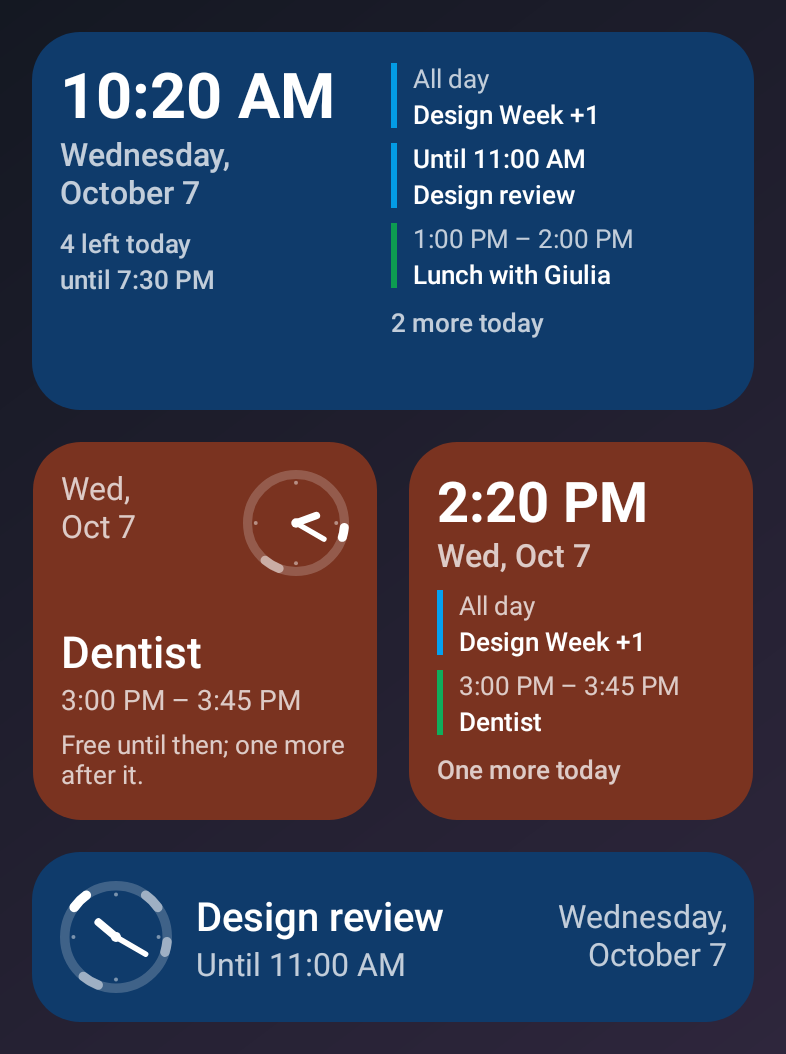
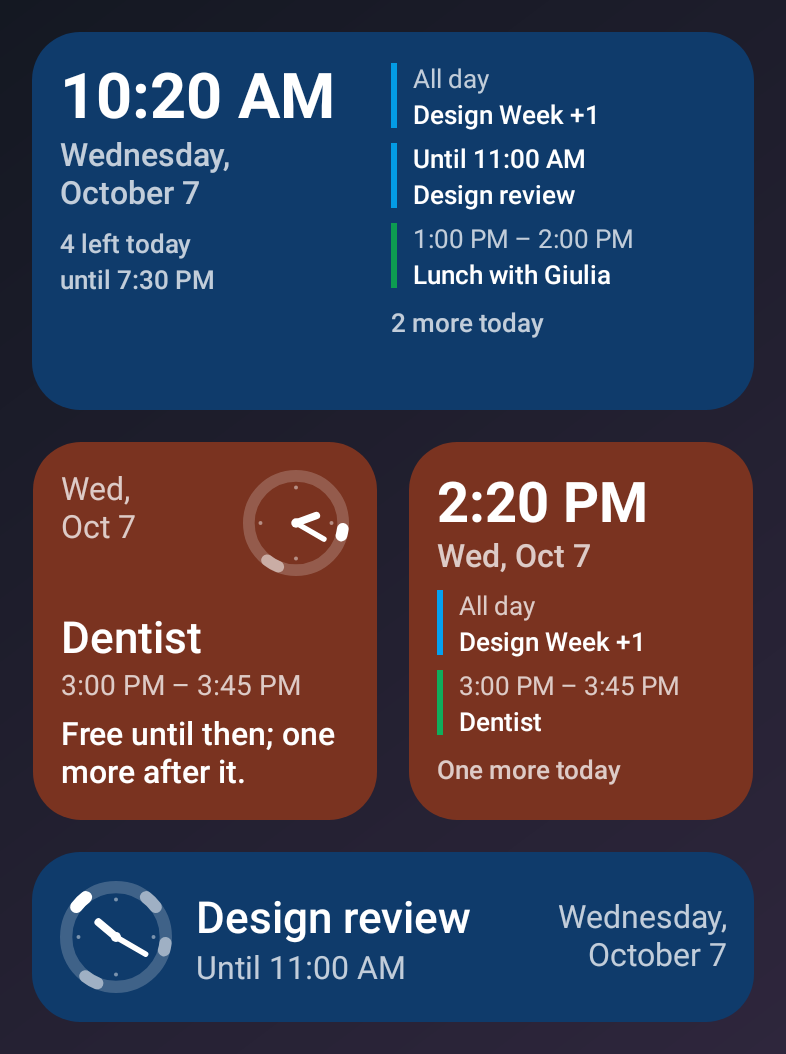
The family's ring card: «In words» drawn as its sisters
One cell is the dial alone; the dial's ring is 11% of its side, as every
ring card of the family draws it; a row's title is 22 sp; the note is the
family's sentence, 16 sp Medium in the strong ink, two lines; a long
title's second line comes before the note. The four-by-two strip is left
as an open question in PLANNING §15. README screenshots regenerated.

Claude-Session: https://claude.ai/code/session_016e4mBMaw6WtMuiD1zs5DWe

diff --git a/core/domain/src/main/kotlin/com/callbackdev/tempo/core/domain/widget/WordsFit.kt b/core/domain/src/main/kotlin/com/callbackdev/tempo/core/domain/widget/WordsFit.kt
@@ -12,16 +12,17 @@ package com.callbackdev.tempo.core.domain.widget
  * | 2 | the focus's title ("Design review"; "Free" when nothing is left) | [TITLE_SP], [TALL_TITLE_SP] | Medium | strong |
  * | 3 | when ("Until 11:00", "15:00 – 16:00", "Tomorrow · 9:00 – 10:00") | [WHEN_SP] | Regular | quiet |
  * | 4 | the date (the system's `TextClock`, so it turns at midnight) | [DATE_SP] | Regular | quiet |
- * | 5 | the day's note; the next events as rows, else the line of times | [NOTE_SP], [ROW_SP] | Regular; a row's title Medium | quiet; a row's title strong |
+ * | 5 | the day's note, the card's sentence | [NOTE_SP] | Medium | strong |
+ * | 6 | the next events as rows, else the line of times | [ROW_SP], [THEN_SP] | Regular; a row's title Medium | quiet; a row's title strong |
  *
  * No number is large: a time printed at a count's size made a sentence shout ("Until 18:30" at
  * 34 sp left the title three words and an ellipsis), and the dial already says the hour. The
- * sizes: the title at 20 sp, the time and the date at 16 sp.
+ * sizes: the title at 22 sp, the time, the date and the note at 16 sp (owner, 14 Nov 2026: the family's
+ * ring card).
  *
  * Three forms:
  *
- * - [WordsForm.CELL], one cell wide: the dial as large as the cell, the focus's time under it where
- *   the cell is taller than wide.
+ * - [WordsForm.CELL], one cell wide: the dial alone, as large as the cell.
  * - [WordsForm.ROW], one row. The dial; the title over its time; the date at the far edge, over
  *   two lines, where the row has the room.
  * - [WordsForm.TALL], two rows and up. The dial in the top trailing corner with the date beside
@@ -159,9 +160,9 @@ object WordsFit {
     }
 
     /**
-     * One cell: the dial is the cell's circle ([cellCircle]), and the focus's time under it where
-     * the cell is tall enough to hold it whole beside the dial's size, the title under that where a
-     * line is left. Without the dial, the time in its place, bold and as large as fits, the title
+     * One cell: the dial alone, the cell's circle ([cellCircle]), centred, as the family's ring
+     * cards draw one cell (owner, 14 Nov 2026; until then the focus's time stood under it where the
+     * cell was tall). Without the dial, the time in its place, bold and as large as fits, the title
      * under it where a line is left.
      */
     private fun cellPlan(spec: WordsSpec): WordsPlan {
@@ -186,19 +187,9 @@ object WordsFit {
             snug = snug,
             sidePadding = AgendaFit.CELL_PADDING,
         )
-        if (spec.dial) {
-            val dial = cellCircle(spec.width, spec.height)
-            val time = whenFor(spec, width, listOf(CELL_WHEN_SP))
-            val under = time?.let { lineHeight(it.sp, scale) + CELL_GAP } ?: 0f
-            if (time == null || inner - dial < under) return base.copy(dial = dial)
-            val title = inner - dial - under >= lineHeight(CELL_TITLE_SP, scale)
-            return base.copy(
-                dial = dial,
-                whenChoice = time.choice,
-                whenSp = time.sp,
-                titleLines = if (title) 1 else 0,
-            )
-        }
+        // The dial alone, as every ring card of the family draws one cell (owner, 14 Nov 2026): the
+        // hands say the time, the arc the event, and the cell keeps no line under them.
+        if (spec.dial) return base.copy(dial = cellCircle(spec.width, spec.height))
         val title = lineHeight(CELL_TITLE_SP, scale)
         fun size(em: Float, room: Float) =
             quarterPoint(minOf(sizeForLine(room, scale), spThatFits(width, em, scale), CELL_WHEN_MAX))
@@ -381,6 +372,16 @@ object WordsFit {
                 left -= line
             }
         }
+        // The title's second line first, for a title too long for one even at [TALL_TITLE_MIN_SP]:
+        // the hero is whole before the sentence speaks, as on every ring card of the family, where
+        // the sentence is what yields (owner, 14 Nov 2026; it came after the note and the dial's
+        // comfort). In the same Text as its first: the face's ascent and descent.
+        var titleLines = 1
+        val secondTitleLine = linesHeight(titleSp, 2, scale) - titleLine
+        if (spec.note && !oneLine && spec.titleLines >= 2 && left >= secondTitleLine) {
+            left -= secondTitleLine
+            titleLines = 2
+        }
         // The note whole or not at all: a sentence cut off mid-phrase says less than none.
         val noteHeight = linesHeight(NOTE_SP, spec.noteLines, scale) + NOTE_GAP
         val noteLines =
@@ -389,13 +390,6 @@ object WordsFit {
         // The rest come where they fit with the dial at its comfort, as they did when the dial grew
         // to it first: a smaller circle leaves air, and a card keeps the words it held.
         if (dial > 0f) left -= (TALL_DIAL_COMFORT - dial).coerceIn(0f, left.coerceAtLeast(0f))
-        var titleLines = 1
-        // The title's second line, in the same Text as its first: the face's ascent and descent.
-        val secondTitleLine = linesHeight(titleSp, 2, scale) - titleLine
-        if (spec.note && !oneLine && spec.titleLines >= 2 && left >= secondTitleLine) {
-            left -= secondTitleLine
-            titleLines = 2
-        }
         // The rows stand where the line of times would, each title keeping [ROW_TITLE_MIN] beside
         // the time column, or an ellipsis says nothing.
         val rowTime = if (spec.rows > 0) widthOf(spec.rowTimeEm, ROW_SP, scale) else 0f
@@ -409,7 +403,7 @@ object WordsFit {
         }
         if (rows > 0) left -= rowsHeight
         val then = spec.note && rows == 0 && spec.then && width >= THEN_MIN_WIDTH &&
-            left >= lineHeight(NOTE_SP, scale)
+            left >= lineHeight(THEN_SP, scale)
         return WordsPlan(
             form = WordsForm.TALL,
             dial = quarterPoint(dial),
@@ -481,8 +475,11 @@ object WordsFit {
         return quarterPoint((innerHeight - band * LINE_BOX_EM * fontScale).coerceIn(TALL_CIRCLE_MIN, most))
     }
 
-    /** The title on a row. */
-    const val TITLE_SP = 20f
+    /**
+     * The title on a row: the scale's [WidgetType.TITLE], the size a word hero takes on every ring
+     * card of the family (owner, 14 Nov 2026; it was 20 sp).
+     */
+    const val TITLE_SP = WidgetType.TITLE
     const val TALL_TITLE_SP = WidgetType.TITLE
     const val TALL_TITLE_MIN_SP = 18f
     const val NARROW_TITLE_SP = 16f
@@ -502,10 +499,17 @@ object WordsFit {
     const val DATE_SP = WidgetType.BODY
     private val DATE_SIZES = listOf(DATE_SP, 14f, 13f)
 
-    /** The note: the scale's [WidgetType.LABEL] (13 Oct 2026, from 14), a list's own size. */
-    const val NOTE_SP = WidgetType.LABEL
+    /**
+     * The note, the card's sentence: the family's sentence on a ring card (owner, 14 Nov 2026),
+     * the scale's [WidgetType.BODY], Medium, in the strong ink, two lines at most. It was the label
+     * step in the quiet ink, three lines. The line of times keeps the list's size ([THEN_SP]).
+     */
+    const val NOTE_SP = WidgetType.BODY
     const val NOTE_GAP = 4f
-    const val NOTE_MAX_LINES = 3
+    const val NOTE_MAX_LINES = 2
+
+    /** The line of times ("Then 13:00 · 15:00"): a list's size, as the rows. */
+    const val THEN_SP = WidgetType.LABEL
     const val TOP_GAP = 4f
 
     /** The dial on its row, and the air beside it. */

diff --git a/widget/src/main/kotlin/com/callbackdev/tempo/widget/words/WordsWidget.kt b/widget/src/main/kotlin/com/callbackdev/tempo/widget/words/WordsWidget.kt
@@ -225,7 +225,7 @@ private class WordsParts(val context: Context, val model: WidgetModel, private v
             titleLines = measureWidgetLines(context, title, WordsFit.TALL_TITLE_SP, innerWidth, TextWeight.MEDIUM),
             whenEms = whens.map { textEm(context, it, TextWeight.REGULAR) },
             noteLines =
-            note?.let { measureWidgetLines(context, it, WordsFit.NOTE_SP, innerWidth, TextWeight.REGULAR) } ?: 0,
+            note?.let { measureWidgetLines(context, it, WordsFit.NOTE_SP, innerWidth, TextWeight.MEDIUM) } ?: 0,
             then = then,
             rows = rows,
             rowTimeEm = rowTimes.maxOfOrNull { textEm(context, it, TextWeight.REGULAR) } ?: 0f,
@@ -256,7 +256,7 @@ private class WordsParts(val context: Context, val model: WidgetModel, private v
     val then: String? = day?.then?.takeIf { plan.then && it.isNotEmpty() }?.let { events ->
         (events.size downTo 1).map { text.then(events, it) }
             .firstOrNull {
-                widthOf(textEm(context, it, TextWeight.REGULAR), WordsFit.NOTE_SP, scale) <= innerWidth.value
+                widthOf(textEm(context, it, TextWeight.REGULAR), WordsFit.THEN_SP, scale) <= innerWidth.value
             }
     }
 
@@ -447,7 +447,7 @@ private fun Note(parts: WordsParts, palette: WidgetPalette) {
     if (parts.plan.noteLines <= 0) return
     Text(
         text = note,
-        style = TextStyle(color = palette.secondaryInk, fontSize = WordsFit.NOTE_SP.sp, fontWeight = FontWeight.Normal),
+        style = TextStyle(color = palette.primaryInk, fontSize = WordsFit.NOTE_SP.sp, fontWeight = FontWeight.Medium),
         maxLines = parts.plan.noteLines,
         modifier = GlanceModifier.padding(top = WordsFit.NOTE_GAP.dp),
     )
@@ -498,7 +498,7 @@ private fun focusModifier(parts: WordsParts): GlanceModifier = GlanceModifier
 // --- The forms ---------------------------------------------------------------------------------
 
 /**
- * One cell: the dial, and the focus's time under it where the cell is tall; without the dial, the
+ * One cell: the dial alone (owner, 14 Nov 2026, the family's ring card); without the dial, the
  * time large in its place. Where a message stands in for the day the dial stays, empty, as the
  * clock stays on «Agenda»'s cell: the time works without the calendar (VISION.md); a message's one
  * word only where the reader hid the dial.
@@ -618,7 +618,7 @@ private fun TallContent(parts: WordsParts, palette: WidgetPalette) {
                     text = then,
                     style = TextStyle(
                         color = palette.secondaryInk,
-                        fontSize = WordsFit.NOTE_SP.sp,
+                        fontSize = WordsFit.THEN_SP.sp,
                         fontWeight = FontWeight.Normal,
                     ),
                     maxLines = 1,

diff --git a/core/domain/src/test/kotlin/com/callbackdev/tempo/core/domain/widget/WordsTest.kt b/core/domain/src/test/kotlin/com/callbackdev/tempo/core/domain/widget/WordsTest.kt
@@ -330,13 +330,14 @@ class WordsTest {
     }
 
     @Test
-    fun `one cell is the dial alone, and a tall cell says the time under it`() {
+    fun `one cell is the dial alone, a tall cell too, as the family's ring cards draw one cell`() {
         val cell = WordsFit.plan(spec(85f, 85f))
         assertThat(cell.dial).isEqualTo(85f - AgendaFit.CELL_PADDING * 2)
         assertThat(cell.whenChoice).isEqualTo(-1)
         val tall = WordsFit.plan(spec(85f, 189f))
         assertThat(tall.dial).isEqualTo(WordsFit.cellCircle(85f, 189f))
-        assertThat(tall.whenChoice).isAtLeast(0)
+        assertThat(tall.whenChoice).isEqualTo(-1)
+        assertThat(tall.titleLines).isEqualTo(0)
     }
 
     @Test
@@ -534,8 +535,12 @@ class WordsTest {
         assertThat(plan.dial).isEqualTo(81.75f)
         assertThat(plan.titleLines).isEqualTo(2)
         assertThat(plan.whenChoice).isEqualTo(0)
-        assertThat(plan.noteLines).isEqualTo(1)
+        // The note is the family's sentence since 14 Nov 2026, 16 sp Medium: under a title of two
+        // lines it yields, as a ring card's sentence yields to its hero.
+        assertThat(plan.noteLines).isEqualTo(0)
         assertThat(plan.dateOver).isFalse()
+        val short = WordsFit.plan(spec(188f, 218f))
+        assertThat(short.noteLines).isEqualTo(1)
     }
 
     @Test

diff --git a/core/domain/src/main/kotlin/com/callbackdev/tempo/core/domain/widget/DialArcs.kt b/core/domain/src/main/kotlin/com/callbackdev/tempo/core/domain/widget/DialArcs.kt
@@ -196,8 +196,15 @@ object DialFade {
  * drawn in Compose), so the two read as the same clock.
  */
 object DialGeometry {
-    const val STROKE: Float = 0.085f
-    const val DOT_RADIUS: Float = 0.38f
+    /**
+     * The ring's stroke on the card: the family's ring (owner, 14 Nov 2026, PLANNING.md §15 «The
+     * family's ring card»), 11% of the side, as every ring card of the family draws it, so the
+     * dial and its sisters' rings weigh the same on one home screen. It was 8.5%.
+     */
+    const val STROKE: Float = 0.11f
+
+    /** The quarter dots, inside the heavier ring's inner edge (0.39 of the side). */
+    const val DOT_RADIUS: Float = 0.335f
     const val DOT_SIZE: Float = 0.016f
     const val HOUR_LENGTH: Float = 0.24f
     const val HOUR_WIDTH: Float = 0.07f

diff --git a/core/domain/src/test/kotlin/com/callbackdev/tempo/core/domain/widget/WidgetTypeTest.kt b/core/domain/src/test/kotlin/com/callbackdev/tempo/core/domain/widget/WidgetTypeTest.kt
@@ -31,6 +31,8 @@ class WidgetTypeTest {
     @Test
     fun `a list's row is one size, title and time alike`() {
         assertThat(AgendaFit.TITLE_SP).isEqualTo(AgendaFit.TIME_SP)
-        assertThat(WordsFit.NOTE_SP).isEqualTo(AgendaFit.NOTE_SP)
+        // «In words»'s line of times is a list's line; its note is the family's sentence, a body.
+        assertThat(WordsFit.THEN_SP).isEqualTo(AgendaFit.NOTE_SP)
+        assertThat(WordsFit.NOTE_SP).isEqualTo(WidgetType.BODY)
     }
 }

diff --git a/PLANNING.md b/PLANNING.md
@@ -437,6 +437,7 @@ What is still to decide or to do, in one place, besides the steps of the phases 
 - [x] **The new icon on the phone** (§15, 9 Nov 2026, «The new icon: the day's page and the clock»): the launcher icon in the phone's own mask, the themed icon, the «New event» shortcut. Done by the owner on 9 Nov 2026 (§15, «The new icon checked on the phone»).
 - [x] **The «New event» shortcut as an adaptive icon, on the phone** (§15, 9 Nov 2026, «The «New event» shortcut, an adaptive icon»): long press on the icon, in the phone's own mask and with the themed icons on. Done by the owner on 9 Nov 2026 (§15, «The adaptive shortcut checked on the phone, and Tetto in the family»).
 - [ ] **Today's review on the phone** (§15, 10 Nov 2026, «Today reviewed: one clock, one "now", one ground»; and 11 Nov 2026, «The dial: a cut arc fades, and the face stays while today has events»): the page in both dresses and both themes, early morning (the face with its ring empty, a long event fading at 12:25), morning and evening (the dial there and gone), the «In words» card early in the day, the day markers on the 12-hour clock, the button's icon over the last rows, TalkBack on the all-day events and the button.
+- [ ] **«In words» four by two: a strip of the day under a one-row header?** (§15, 14 Nov 2026, «The family's ring card».) Passo's ring card draws its hours under a one-row header on a wide card, Tetto's the cap's days or other caps; Tempo's keeps its tall form, the next events as rows. Options: (a) as now; (b) a header like a row (dial, title over its time, the date at the far edge) and under it the day's events as blocks on a 24-hour line, the event's calendar as a mark, the titles lost. Asked of the owner; not built.
 - [ ] **1.1's battery check on the phone** (step 8.8's open box; §15, 2 Nov 2026, "1.1.0 released", in archive 02). §9.6's check with «In words» placed: still one non-wakeup alarm of Tempo's at most, about two boundaries an event a day plus the moments events come onto the dial; written in `docs/device-checks/widget-refresh.md`.
 
 Reread on 2 Nov 2026, at archive 02: four boxes open, the question on the two-row «In words» (asked of the owner on 30 Oct 2026), Phase 5's Baseline Profile (carried from archive 01), 8.4's «Join» (on hold) and 1.1's battery check (both carried from archive 02); the phases' open steps are in §11 (Phase 7, optional). No proposal undecided.
@@ -803,3 +804,32 @@ looks at it screen by screen.
 **Checked.** The onboarding's tests and their screenshots (Italian, twice the text size);
 `onboarding.png` regenerated and looked at.
 
+### The family's ring card: «In words» in the four apps (owner, 14 Nov 2026)
+
+The owner asked for the four «In words» cards to be one family at every size, on one home screen,
+with Passo's ring card as the model of layout, drawing and type (Passo's «At a glance» was renamed
+«In words» for it), and, for Tempo, the one cell as the dial alone, "so it is fully the same as the
+other apps at 1×1". Drawn first on a canvas the owner approved, then built. Tempo's part:
+
+- **One cell is the dial alone** (`WordsFit.cellPlan`): no time under it any more, at any height;
+  the hands say the time and the arc the event, as Passo's cell is the ring and its count, Tetto's
+  the ring and its figure. Without the dial, the cell keeps the time large in its place. The
+  settings' line for the form says so.
+- **The ring weighs as the family's**: `DialGeometry.STROKE` 0.085 → 0.11 of the side (only the
+  card reads it; Today's face keeps its own stroke), the quarter dots moved in to 0.335 so they
+  stay inside the heavier ring (shared with Today's face, whose dots move in a little too:
+  `today.png` and `today-tablet.png` regenerated for them).
+- **The words' sizes are the family's**: a row's title at the scale's `TITLE` (22 sp, from 20), the
+  size a word hero takes on every ring card; the note is the card's sentence, the family's: 16 sp
+  Medium in the strong ink, two lines at most (from 13 sp Regular, quiet, three). The line of
+  times keeps a list's size (`THEN_SP`, 13 sp).
+- **The hero before the sentence** on a tall card: a long title's second line is given before the
+  note, as a ring card's sentence yields to its hero. On the owner's two-by-two a title of two
+  lines now leaves its note out; a title of one line keeps it (`WordsTest`).
+- **Not done, on purpose: a strip on a wide card.** The canvas drew Tempo's four-by-two with a
+  strip of the day's events under a one-row header, as Passo draws its hours. Tempo's tall card
+  already lists the next events as rows (or their times) where the strip would stand, with their
+  titles, which a strip of blocks would lose: it stays, and the question is in «Open».
+
+Checked: `:core:domain` and `:widget` tests, the gallery looked at, spotless; README `widgets.png`
+regenerated and looked at.

diff --git a/CHANGELOG.md b/CHANGELOG.md
@@ -10,6 +10,12 @@ All notable changes to Tempo are documented here. The format follows
 
 ## [Unreleased]
 
+### Changed
+
+- **«In words» looks like its sisters.** One cell is the clock face alone; the face's ring is
+  a little heavier; the title is larger on a row, and the day's note is the size of the time,
+  stronger, on two lines at most.
+
 ### Added
 
 - **«In words», the event alone.** Turn off «The day’s note» in the widget’s settings and a widget
